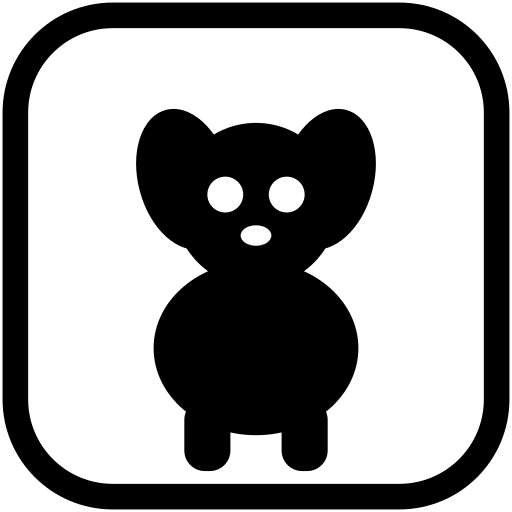
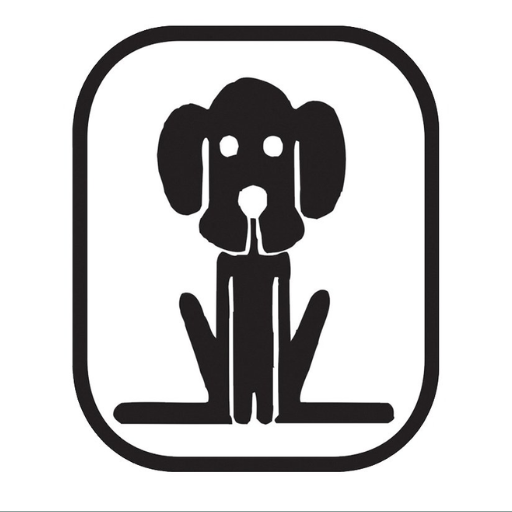
Dodaj baner instalacji PWA i zaktualizuj ikony
Baner "Zainstaluj aplikację" pojawia się automatycznie na dole ekranu
gdy Chrome wykryje możliwość instalacji. Użytkownik może zainstalować
lub zamknąć baner. Nie pokazuje się jeśli aplikacja jest już zainstalowana.
Zaktualizowano ikony z plików wgranych na GitHub.

https://claude.ai/code/session_01RMmQArq7mxvEfQ1wLSht5v

diff --git a/src/InstallPrompt.jsx b/src/InstallPrompt.jsx
@@ -1,0 +1,89 @@
+import React, { useEffect, useState } from "react";
+import { Download, X } from "lucide-react";
+
+export default function InstallPrompt() {
+  const [deferredPrompt, setDeferredPrompt] = useState(null);
+  const [visible, setVisible] = useState(false);
+  const [installed, setInstalled] = useState(false);
+
+  useEffect(() => {
+    // Nie pokazuj jeśli już zainstalowana (działa jako standalone)
+    if (window.matchMedia("(display-mode: standalone)").matches) return;
+    if (window.navigator.standalone === true) return;
+
+    const handler = (e) => {
+      e.preventDefault();
+      setDeferredPrompt(e);
+      setVisible(true);
+    };
+
+    window.addEventListener("beforeinstallprompt", handler);
+    window.addEventListener("appinstalled", () => setInstalled(true));
+
+    return () => window.removeEventListener("beforeinstallprompt", handler);
+  }, []);
+
+  const handleInstall = async () => {
+    if (!deferredPrompt) return;
+    deferredPrompt.prompt();
+    const { outcome } = await deferredPrompt.userChoice;
+    if (outcome === "accepted") setInstalled(true);
+    setDeferredPrompt(null);
+    setVisible(false);
+  };
+
+  if (!visible || installed) return null;
+
+  return (
+    <div style={{
+      position: "fixed",
+      bottom: "90px",
+      left: "1rem",
+      right: "1rem",
+      backgroundColor: "white",
+      borderRadius: "1rem",
+      boxShadow: "0 4px 24px rgba(0,0,0,0.18)",
+      border: "2px solid #2563eb",
+      padding: "1rem 1.25rem",
+      zIndex: 999,
+      display: "flex",
+      alignItems: "center",
+      gap: "0.75rem",
+    }}>
+      <img src="/icon-192.png" alt="logo" style={{ width: "48px", height: "48px", borderRadius: "10px", flexShrink: 0 }} />
+      <div style={{ flex: 1 }}>
+        <p style={{ fontWeight: "700", fontSize: "0.95rem", color: "#111827", margin: 0 }}>
+          Zainstaluj aplikację
+        </p>
+        <p style={{ fontSize: "0.8rem", color: "#6b7280", margin: "0.15rem 0 0" }}>
+          Dodaj Schronisko do ekranu głównego
+        </p>
+      </div>
+      <button
+        onClick={handleInstall}
+        style={{
+          backgroundColor: "#2563eb",
+          color: "white",
+          border: "none",
+          borderRadius: "0.6rem",
+          padding: "0.5rem 0.9rem",
+          fontWeight: "700",
+          fontSize: "0.875rem",
+          cursor: "pointer",
+          display: "flex",
+          alignItems: "center",
+          gap: "0.35rem",
+          flexShrink: 0,
+        }}
+      >
+        <Download size={16} /> Zainstaluj
+      </button>
+      <button
+        onClick={() => setVisible(false)}
+        style={{ background: "none", border: "none", cursor: "pointer", color: "#9ca3af", padding: "0.25rem", flexShrink: 0 }}
+      >
+        <X size={20} />
+      </button>
+    </div>
+  );
+}

diff --git a/src/App.jsx b/src/App.jsx
@@ -20,6 +20,7 @@ import BehaviorReport from "./BehaviorReport";
 import HomeView from "./HomeView";
 import AdminPanelView from "./AdminPanelView";
 import MapEditor from "./MapEditor";
+import InstallPrompt from "./InstallPrompt";
 import { parseSpreadsheetDate, getLastWalkPresentation } from "./utils/dateTime";
 import {
   auth,
@@ -2411,6 +2412,7 @@ const handleLogin = async () => {
 
   return (
     <>
+      <InstallPrompt />
       {isAuthEnabled && currentUser && (
         <div style={{ position: "fixed", top: 8, right: 8, zIndex: 200 }}>
           <button
